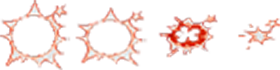
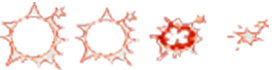
rifinite le esplosioni

diff --git a/Esplosione.h b/Esplosione.h
@@ -5,6 +5,7 @@
 #include "allegro5/allegro_image.h"
 #include <iostream>
 using namespace std;
+enum Tipo{pallaPic=0, pallaMed, pallaGra, bloccoPietra, bloccoVetro1, bloccoVetro2};
 
 class Esplosione{
     private:
@@ -12,56 +13,118 @@ class Esplosione{
     Animation animazione;
     int posX;
     int posY;
-    int size;
+    int dimX;
+    int dimY;
+    Tipo tipo;
 
     public:
-    Esplosione():posX(0),posY(0),size(0){}
-    Esplosione(int x,int y,int size)
+    Esplosione(){
+        posX=0; posY=0;
+        dimX=0; dimY=0; tipo=pallaPic;
+    animazione.setFrameCount(0);
+    animazione.setFrameDelay(6);
+    animazione.setCurrFrame(0);
+    }
+
+    Esplosione(int x,int y,Tipo tipo)
     {
         posX=x;
         posY=y;
-        this->size=size;
+        this->tipo=tipo;
+        if(tipo==pallaPic)
+        {
+            dimX=20; dimY=20;
+            setExplosion(al_load_bitmap("images/esplosionePic.png"));
+        }    
+        if(tipo==pallaMed)
+        {
+            dimX=40; dimY=40;
+            setExplosion(al_load_bitmap("images/esplosioneMed.png"));
+        }    
+        if(tipo==pallaGra)
+        {
+            dimX=70; dimY=70;
+            setExplosion(al_load_bitmap("images/esplosioneGra.png"));
+        }    
+        if(tipo==bloccoPietra)
+        {
+            dimX=56; dimY=24;
+            setExplosion(al_load_bitmap("images/stoneAnimation.png"));
+        }    
+        if(tipo==bloccoVetro1)
+        {
+            dimX=29; dimY=61;
+            setExplosion(al_load_bitmap("images/animazioneVetro2.png"));
+        }    
+        if(tipo==bloccoVetro2)
+        {
+            dimX=41; dimY=24;
+            setExplosion(al_load_bitmap("images/animazioneVetro1.png"));
+        }    
         animazione.setFrameCount(0);
-        animazione.setFrameDelay(8);
+        animazione.setFrameDelay(7);
         animazione.setCurrFrame(0);
     }
 	~Esplosione()  { al_destroy_bitmap(explosion);}
     int getPosX(){return posX;}
     int getPosY(){return posY;}
-    int getSize(){return size;}
+    int getDimX(){return dimX;}
+    int getDimY(){return dimY;}
+    Tipo getTipo(){return tipo;}
     ALLEGRO_BITMAP *getExplosion() const{return explosion;}
 
     void setPosX(int x){posX=x;}
     void setPosY(int y){posY=y;}
     void setExplosion(ALLEGRO_BITMAP *bitmap){explosion=bitmap;}
-    void setSize(int size){this->size=size;}
-    bool Draw()
-    {
-        bool pic=false;
-        if(size==2)
+    void setDimX(int size){this->dimX=size;}
+    void setDimY(int size){this->dimY=size;}
+    void setTipo(int t){
+        if(t==0)
+        {   
+            tipo=pallaPic;
+            dimX=20; dimY=20;
+            setExplosion(al_load_bitmap("images/esplosionePic.png"));
+        }    
+        if(t==1)
         {
-            setSize(70);
+            tipo=pallaMed;
+            dimX=40; dimY=40;
+            setExplosion(al_load_bitmap("images/esplosioneMed.png"));
+        }    
+        if(t==2)
+        {
+            tipo=pallaGra;
+            dimX=70; dimY=70;
             setExplosion(al_load_bitmap("images/esplosioneGra.png"));
         }    
-        else if(size==1)
-        {   
-            setSize(40);
-            setExplosion(al_load_bitmap("images/esplosioneMed.png"));
-        }
-        else if(size==0)
-       {    
-           setSize(20);
-           pic=true;
-        setExplosion(al_load_bitmap("images/esplosionePic.png"));
-       }
-       
-       if(pic)
+        if(t==3)
         {
-                if(animazione.eseguiFrame(explosion,getSize(),getSize(),getPosX(),getPosY(), false,5))
+            tipo=bloccoPietra;
+            dimX=56; dimY=24;
+            setExplosion(al_load_bitmap("images/stoneAnimation.png"));
+        }    
+        if(t==4)
+        {
+            tipo=bloccoVetro1;
+            dimX=29; dimY=61;
+            setExplosion(al_load_bitmap("images/animazioneVetro2.png"));
+        }    
+        if(t==5)
+        {
+            tipo=bloccoVetro2;
+            dimX=41; dimY=24;
+            setExplosion(al_load_bitmap("images/animazioneVetro1.png"));
+        }    
+    }
+    bool Draw()
+    {
+       if(getTipo()==pallaPic)
+        {
+                if(animazione.eseguiFrame(explosion,getDimX(),getDimY(),getPosX(),getPosY(), false,5))
                     return true;
         }            
        else
-            if(animazione.eseguiFrame(explosion,getSize(),getSize(),getPosX(),getPosY(), false,4))
+            if(animazione.eseguiFrame(explosion,getDimX(),getDimY(),getPosX(),getPosY(), false,4))
                     return true;
        return false;         
 

diff --git a/GestorePalle.h b/GestorePalle.h
@@ -70,9 +70,11 @@ bool GestorePalle::hitByHook(float x1, float y1, float d1, bool& b)  {
 		
 		if(b1 && b2 && b3)  {
 			float x = (*it)->getX(), c = (*it)->getCont();
-			explosion.setSize((*it)->getSize());
+
+			explosion.setTipo((*it)->getSize());
 			explosion.setPosX((*it)->getX());
 			explosion.setPosY((*it)->getY());
+
 			SIZE s;
 			switch((*it)->getSize())  {
 				case GRA:	s = MED;

diff --git a/Animation.h b/Animation.h
@@ -40,7 +40,7 @@ class Animation{
 			}
         al_draw_bitmap_region(bitmap,currFrame*dim_x,0,dim_x,dim_y,x,y,0);
         if(!ridisegna && currFrame>=totalFrames)
-		    currFrame=0;
+                currFrame=0;
         return continua;
     }
 };
